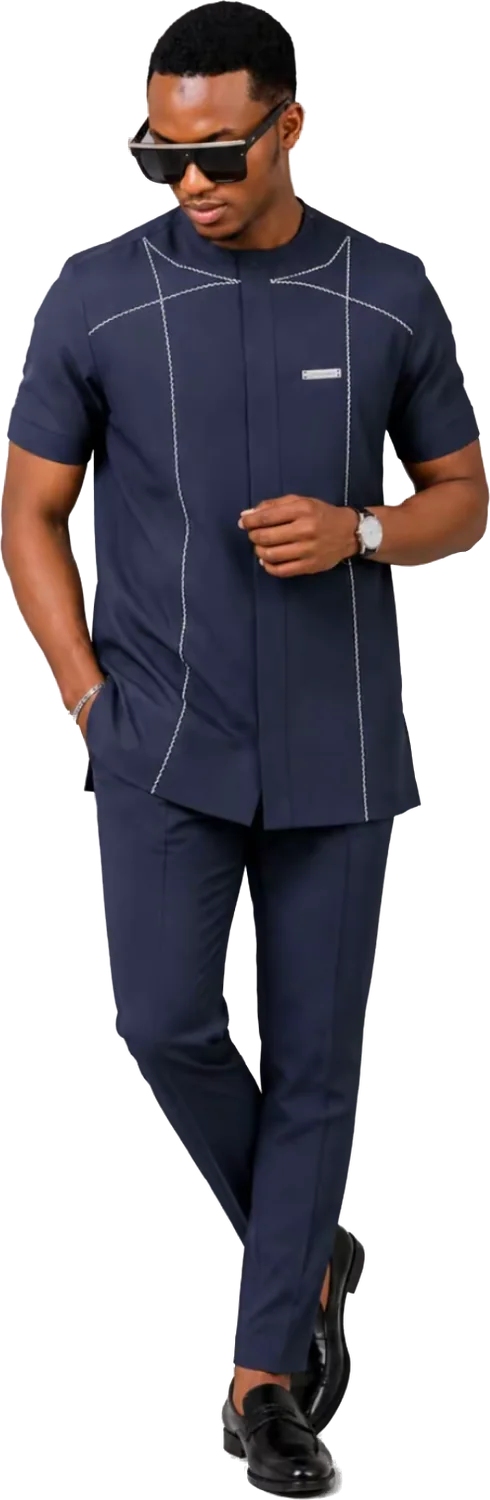
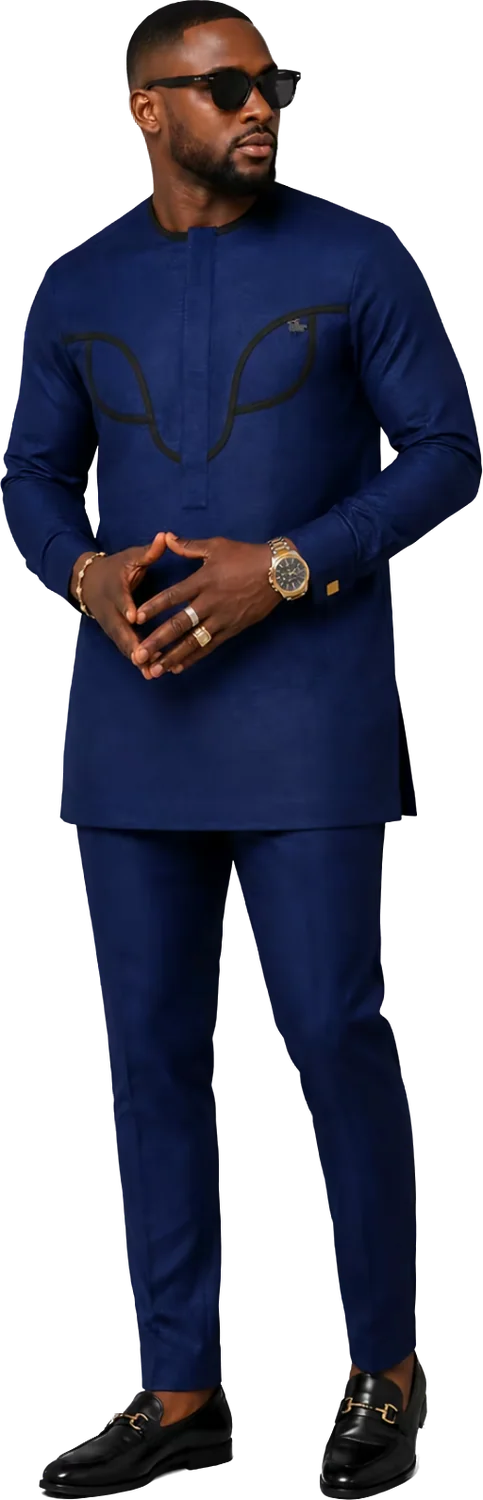
Nouvelle tenue en hero (bleu roi), veste brodée en vedette, 5 tenues ajoutées
Claude-Session: https://claude.ai/code/session_01Xz6uQh1czsZs6w8qvcemNM

diff --git a/content.js b/content.js
@@ -60,8 +60,8 @@ window.SITE = {
 
   // Deux familles : les ensembles (manches longues et courtes) et les vestes.
   categories: [
-    { id: 'ensembles', label: 'Ensembles', text: 'Manches longues ou courtes, broderies, liserés et surpiqûres.', cover: '002' },
-    { id: 'vestes', label: 'Vestes & costumes', text: 'Col mao, sahariennes, gilets et jacquards.', cover: '020' },
+    { id: 'ensembles', label: 'Ensembles', text: 'Manches longues ou courtes, broderies, liserés et surpiqûres.', cover: '026' },
+    { id: 'vestes', label: 'Vestes & costumes', text: 'Col mao, sahariennes, gilets et jacquards.', cover: '024' },
   ],
 
   // Catalogue. ref = numéro du modèle (à reprendre dans les légendes TikTok/Instagram).
@@ -83,6 +83,11 @@ window.SITE = {
     { ref: '019', name: 'Ensemble Marine Matelassé', cat: 'ensembles', price: 55000, color: 'Bleu marine', hex: '#1e2a4a', img: 'images/tenues/ensemble-marine-matelasse.webp', detail: 'Empiècement matelassé, col officier, patte cachée' },
     { ref: '020', name: 'Veste Verte Rayée', cat: 'vestes', price: 75000, color: 'Vert pétrole', hex: '#1d4a48', img: 'images/tenues/veste-verte-rayee.webp', detail: 'Fines rayures dorées, boutons dorés, pochette camel' },
     { ref: '021', name: 'Veste Brandebourgs', cat: 'vestes', price: 70000, color: 'Gris ardoise', hex: '#3a4150', img: 'images/tenues/veste-brandebourgs.webp', detail: 'Col mao, fermeture à brandebourgs' },
+    { ref: '023', name: 'Ensemble Bleu Roi Liseré', cat: 'ensembles', price: 50000, color: 'Bleu roi', hex: '#1f3a8a', img: 'images/tenues/ensemble-bleu-roi.webp', detail: 'Lin texturé, liserés noirs en arabesque, col rond' },
+    { ref: '024', name: 'Veste Brodée Arabesques', cat: 'vestes', price: 85000, color: 'Anthracite', hex: '#3d3a37', img: 'images/tenues/veste-brodee-arabesques.webp', detail: 'Broderie perlée en arabesques, col officier, poche à rabat' },
+    { ref: '025', name: 'Ensemble Zippé Chocolat', cat: 'ensembles', price: 55000, color: 'Chocolat & sable', hex: '#4a2c22', img: 'images/tenues/ensemble-zippe-chocolat.webp', detail: 'Fermeture zippée dorée, manches sable, poches liserées' },
+    { ref: '026', name: 'Ensemble Kaki Liseré', cat: 'ensembles', price: 50000, color: 'Kaki', hex: '#5b5f3e', img: 'images/tenues/ensemble-kaki-lisere.webp', detail: 'Tissu texturé, liserés noirs en arabesque' },
+    { ref: '027', name: 'Ensemble Mauve Empiècement', cat: 'ensembles', price: 50000, color: 'Mauve & prune', hex: '#9a7f99', img: 'images/tenues/ensemble-mauve.webp', detail: 'Empiècement prune, poches arrondies, liseré crème' },
     // Sorties d'atelier : photo de la tenue pliée (img) + photo d'atelier complète (photo)
     { ref: '014', name: 'Ensemble Noir Losanges', cat: 'ensembles', price: 50000, color: 'Noir', hex: '#14161c', img: 'images/atelier/noir-losanges-plie.jpg', photo: 'images/atelier/noir-losanges.jpg', flat: true, detail: 'Plastron brodé à motif losanges, boutons dorés' },
     { ref: '015', name: 'Ensemble Carreaux Gris', cat: 'ensembles', price: 55000, color: 'Gris taupe', hex: '#6f6a64', img: 'images/atelier/carreaux-gris-plie.jpg', photo: 'images/atelier/carreaux-gris.jpg', flat: true, detail: 'Tissu à carreaux, poche brodée, col doublé imprimé' },
@@ -91,10 +96,10 @@ window.SITE = {
     { ref: '018', name: 'Ensemble Noir Rayé Brodé', cat: 'ensembles', price: 50000, color: 'Noir rayé', hex: '#1b1b1d', img: 'images/atelier/noir-raye-brode-plie.jpg', photo: 'images/atelier/noir-raye-brode.jpg', flat: true, detail: 'Fines rayures, broderie géométrique blanche' },
     { ref: '022', name: 'Ensemble Noir Points Or', cat: 'ensembles', price: 50000, color: 'Noir & or', hex: '#111111', img: 'images/atelier/noir-points-or.jpg', photo: null, flat: true, detail: 'Piqûres dorées, col doublé imprimé' },
   ],
-  featured: '013', // tenue mise en avant (bloc « pièce vedette »)
-  featuredStrip: ['013', '020', '012', '009'], // miniatures du bloc vedette
+  featured: '024', // tenue mise en avant (bloc « pièce vedette »)
+  featuredStrip: ['024', '013', '020', '025'], // miniatures du bloc vedette
   // Tenues affichées sur l'accueil (photos studio) ; la page Collection les affiche toutes
-  home: ['001', '002', '019', '003', '004', '010', '020', '012', '009', '011', '021', '005'],
+  home: ['023', '024', '027', '025', '026', '002', '019', '020', '013', '012', '009', '011'],
 
   // Bandeau défilant sous l'accueil
   marquee: ['L’élégance', 'La modernité', 'La distinction', 'Fait à Dakar', 'Sur mesure', 'Livraison Sénégal & diaspora'],

diff --git a/app.js b/app.js
@@ -206,7 +206,7 @@
       <p>Couture africaine moderne pour l’homme classe, confiant et distingué. ${esc(S.brand.tagline)}.</p>
       <a class="btn" href="#collection">Découvrir les modèles</a>
     </div>
-    <div class="motto-fig"><img src="${esc((byRef('005') || P[1]).img)}" alt="" loading="lazy"></div>
+    <div class="motto-fig"><img src="${esc((byRef('025') || P[1]).img)}" alt="" loading="lazy"></div>
   </div></section>`;
 
   const how = `
